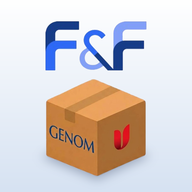
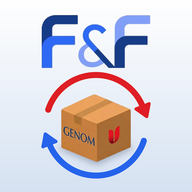
Ícone: F&F maior com a caixa e setas de entrada e saída em círculo
Claude-Session: https://claude.ai/code/session_01CZFmzCaMnCg1pR5pQDsF27

Changed region(s): [[0.1875, 0.0625, 0.8125, 0.9375]]

diff --git a/index.html b/index.html
@@ -9,9 +9,9 @@
 <meta name="apple-mobile-web-app-capable" content="yes">
 <meta name="apple-mobile-web-app-status-bar-style" content="default">
 <meta name="apple-mobile-web-app-title" content="Estoque FFSP">
-<link rel="manifest" href="manifest.json?v=13">
-<link rel="apple-touch-icon" href="icon-180.png?v=13">
-<link rel="icon" href="icon-192.png?v=13">
+<link rel="manifest" href="manifest.json?v=14">
+<link rel="apple-touch-icon" href="icon-180.png?v=14">
+<link rel="icon" href="icon-192.png?v=14">
 <link rel="stylesheet" href="styles.css">
 <script src="https://cdn.jsdelivr.net/npm/xlsx@0.18.5/dist/xlsx.full.min.js" defer></script>
 </head>

diff --git a/sw.js b/sw.js
@@ -1,5 +1,5 @@
 // Service worker: notificações com o app fechado + funcionamento básico offline
-const CACHE = "estoque-v27";
+const CACHE = "estoque-v28";
 const ARQUIVOS = ["./", "./index.html", "./app.js", "./styles.css", "./config.js", "./manifest.json", "./icon-192.png"];
 
 self.addEventListener("install", (e) => {
